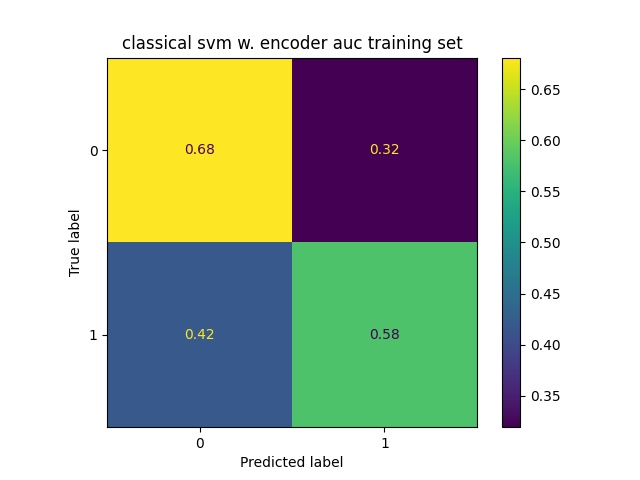
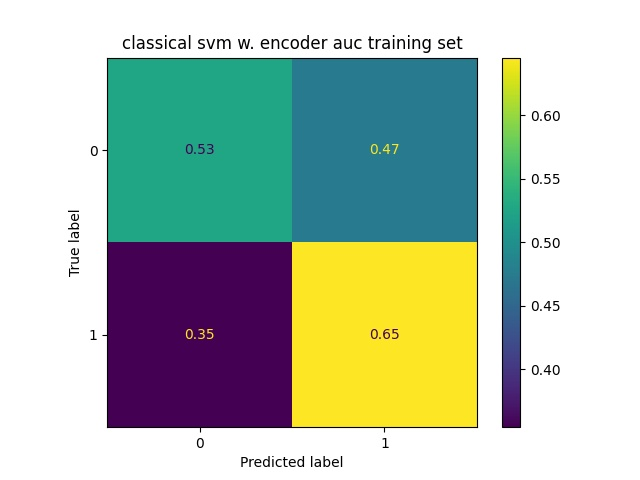
all correct in auc

diff --git a/whole.py b/whole.py
@@ -76,8 +76,8 @@ CMAT_PATH = 'cmats/'
 seed = 12345
 
 
-f_maps = ['u2','zz']
-#f_maps = ['u2']
+#f_maps = ['u2','zz']
+f_maps = ['u2']
 
 zz = ZZFeatureMap(feature_dimension=n_c, reps=2, entanglement='linear')
 u2 = u2Reuploading(nqubits = n_c//2, nfeatures=n_c)
@@ -157,12 +157,12 @@ for encoder in encoders:
         y_proba = svm.predict_proba(x_tf_train[:PREDICTIONS])
         score = roc_auc_score(y_train[:PREDICTIONS], y_proba[:,1])
 
-        print(f"\t\t Classical svm ROC AUC score TRAINING SET {max(score,1 - score) :.2f}")
+        print(f"\t\t Classical svm ROC AUC score TRAINING SET {score :.2f}")
 
         y_proba = svm.predict_proba(x_tf_test[:PREDICTIONS])
         score = roc_auc_score(y_test[:PREDICTIONS], y_proba[:,1])
 
-        print(f"\t\t Classical svm ROC AUC score TEST SET {max(score,1 - score):.2f}")
+        print(f"\t\t Classical svm ROC AUC score TEST SET {score :.2f}")
 
         """
         Distribuzioni di probabilità
@@ -220,12 +220,12 @@ for encoder in encoders:
             y_proba = qsvm.predict_proba(x_tf_train[:PREDICTIONS])
             score = roc_auc_score(y_train[:PREDICTIONS], y_proba[:,1])
 
-            print(f"\t\t Quantum svm ROC AUC score TRAINING SET {max(score,1 - score) :.2f}")
+            print(f"\t\t Quantum svm ROC AUC score TRAINING SET {score :.2f}")
 
             y_proba = qsvm.predict_proba(x_tf_test[:PREDICTIONS])
             score = roc_auc_score(y_test[:PREDICTIONS], y_proba[:,1])
 
-            print(f"\t\t Quantum svm ROC AUC score TEST SET {max(score,1 - score) :.2f}")
+            print(f"\t\t Quantum svm ROC AUC score TEST SET {score :.2f}")
 
             """
             Distribuzioni di probabilità 
